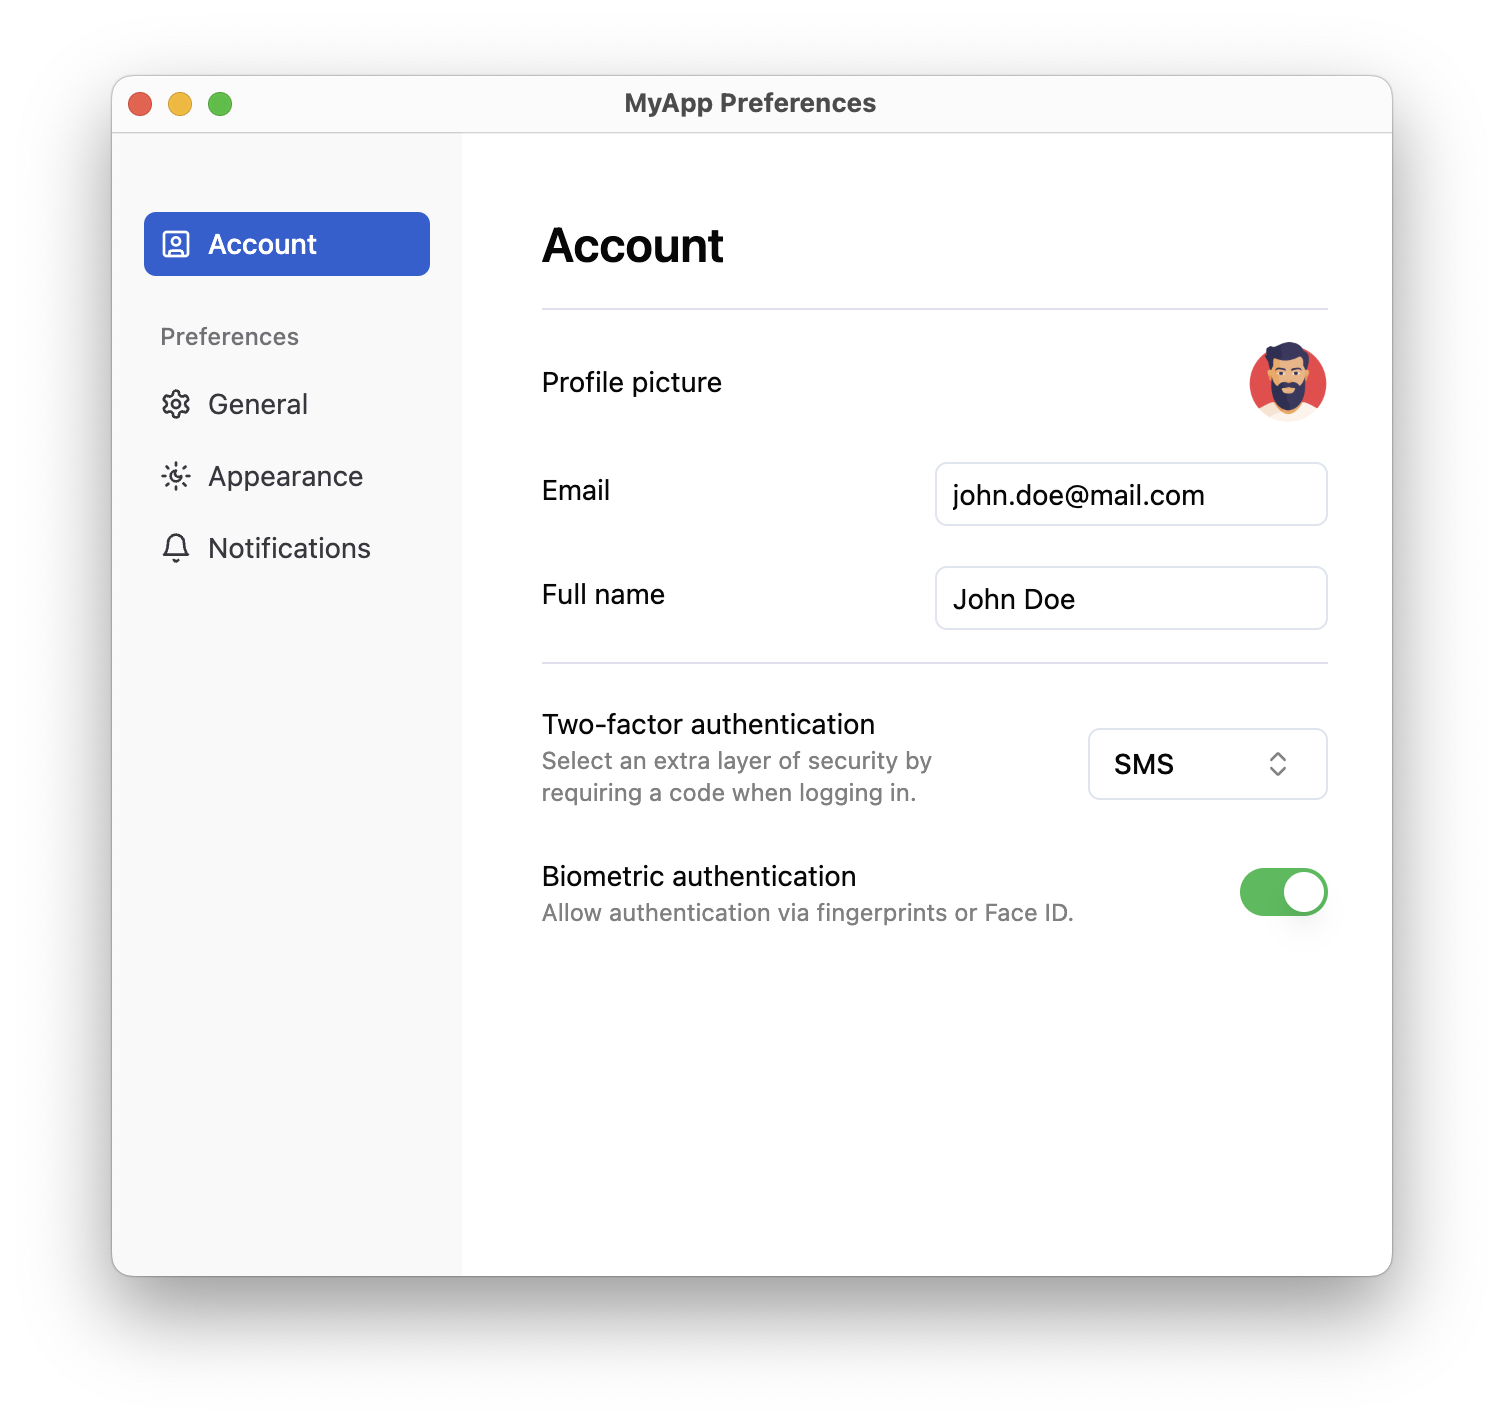
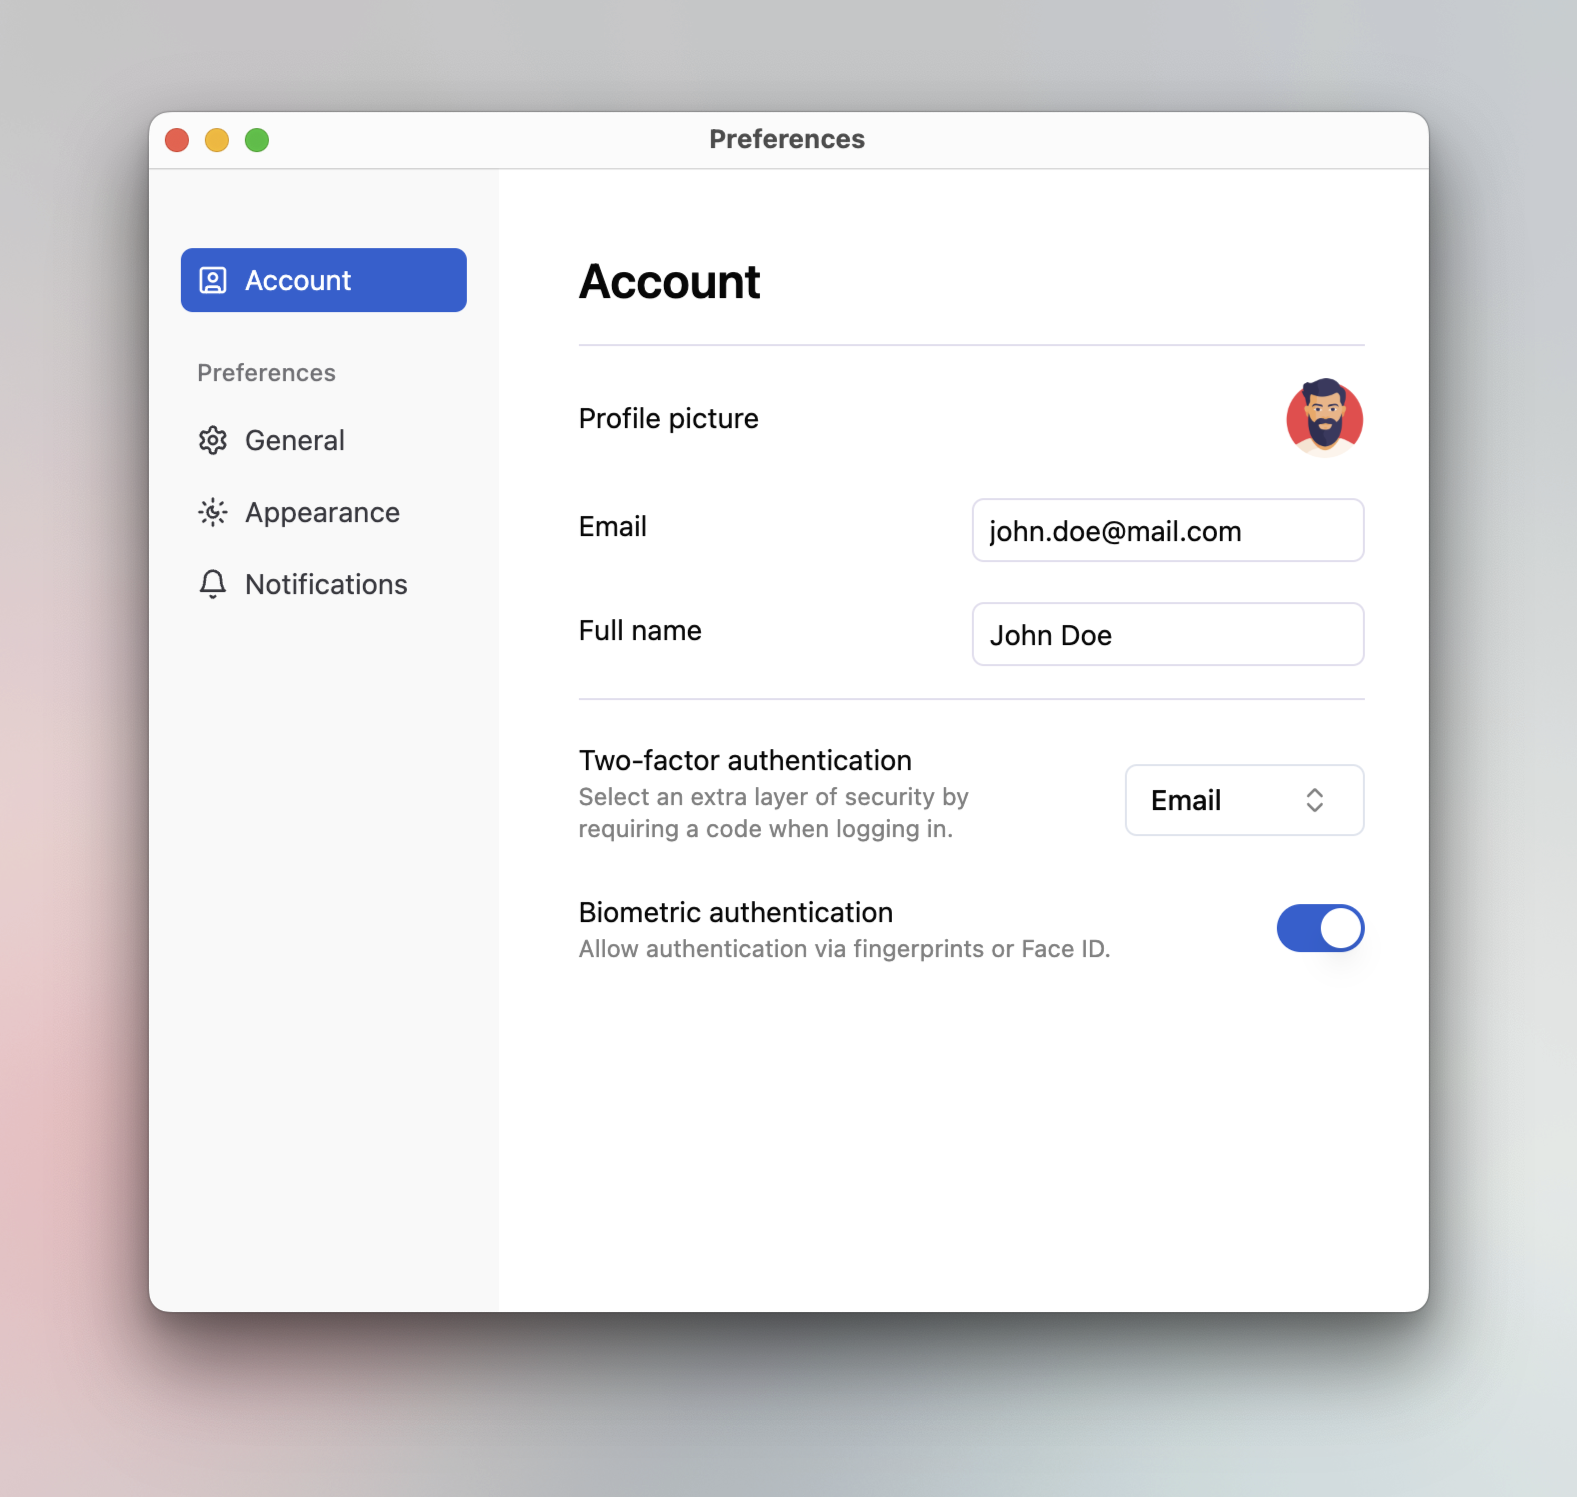
Update screenshot and simplify README.md

diff --git a/desktop-web-app/README.md b/desktop-web-app/README.md
@@ -1,12 +1,58 @@
 # Desktop web apps with JxBrowser
 
-This project demonstrates how to use JxBrowser with modern web UI frameworks such
-as [shadcn/ui](https://ui.shadcn.com/) to create desktop applications with Java backend and
-TypeScript/React/Shadcn frontend.
+This project demonstrates how to create a cross-platform desktop app with Java backend and [shadcn/ui](https://ui.shadcn.com/) frontend.
+
+The application represents a simple preferences dialog that allows users to change the application's settings. Here's how the dialog looks like:
 
 ![App screenshot](.github/readme-resources/prefs.png)
 
-## Summary
+## Prerequisites
+
+- Java 17 or higher.
+- [Node.js](https://nodejs.org/en/download) 20.11.0 or higher.
+- [WiX Toolset](https://github.com/wixtoolset/wix3/releases/tag/wix3141rtm) 3.14.1 or higher if you are planning to package an installer on Windows.
+
+## Protobuf
+
+The app uses Protobuf for communication between Java backend and TypeScript frontend. The Protobuf files are located in the `proto` directory. Java and TypeScript code for Protobuf messages are generated automatically during the build process.
+
+To generate proto messages manually, run the following command:
+
+```bash
+./gradlew desktop-web-app:generateProto
+```
+
+## Running the application
+
+To run the application in the development mode, you first need to start the [Vite](https://vite.dev/) dev server with enabled **Hot-Module Reload (HMR)**:
+
+```bash
+./gradlew desktop-web-app:startDevServer
+```
+
+Then open another **Terminal** window and run the following command to start the application:
+
+```bash
+./gradlew desktop-web-app:run
+```
+
+## Packaging
+
+To build native installers for macOS and Windows, use the following commands.
+
+To build macOS DMG run:
+
+```bash
+./gradlew desktop-web-app:clean desktop-web-app:packageDmg
+```
+
+To build Windows EXE installer run:
+
+```bash
+gradlew.bat desktop-web-app:clean desktop-web-app:packageExe
+```
+
+## About the project
 
 ### Problem
 
@@ -17,18 +63,15 @@ applications switch to web-based UI to eliminate everyday maintenance challenges
 scalability and user experience. With millions of developers experienced in JavaScript, TypeScript,
 and frameworks like React, finding talent and speeding up development is much easier.
 
-Using modern browsers like Chromium makes this transition toward web-based UIs easier. This browser
-allows to render web content seamlessly, and support the latest HTML/CSS/JavaScript, ensuring 
-compatibility with modern UI frameworks. These frameworks use advanced CSS, responsive design,
-and rich component libraries.
+The modern web browsers like Chromium make this transition toward web-based UIs easier. Chromium
+allows rendering web content seamlessly, and supports the latest HTML and CSS standards, ensuring 
+compatibility with modern UI frameworks.
 
-#### Solution
+### Solution
 
-This example demonstrates how to create a desktop application that uses a modern Shadcn framework
-for building UI. The showcased application is a web server that utilizes the JxBrowser API
-to render web UI from the [web-app](/web-app) directory. 
+This project demonstrates how to create a desktop application that uses one of the most popular library for building UI on React — [shadcn/ui](https://ui.shadcn.com/). The showcased application is a web server that utilizes the JxBrowser API to render web UI from the [web-app](/web-app) directory. 
 
-Rendering web UI is different depending on the mode, production or development.
+Rendering web UI is different depending on the mode: production or development.
 
 In the development mode, you can start a local Vite server that will host the web application.
 
@@ -46,53 +89,3 @@ To sum up, here is a short list of benefits:
 2. Advanced CSS, responsive design, and rich library of pre-designed components.
 3. Web technologies' modular design makes it easy to update, scale, and improve 
 the UI as needs change.
-
-## Description
-
-The project is a desktop application that uses web UI on Shadcn to display regular 
-application preferences.
-
-## Prerequisites
-
-- Java 17 or higher.
-- [Node.js](https://nodejs.org/en/download) 20.11.0 or higher.
-- [WiX Toolset](https://github.com/wixtoolset/wix3/releases/tag/wix3141rtm) 3.14.1 or higher if you are planning to package an installer on Windows.
-
-## Running the application
-
-To run the application in the development mode, you first need to start Vite development server with Hot-Module Reload (HMR):
-
-```bash
-./gradlew desktop-web-app:startDevServer
-```
-
-Then open another terminal and run the following command to start the application:
-
-```bash
-./gradlew desktop-web-app:run
-```
-
-## Packaging
-
-To build a native installer for macOS or Windows, use the following commands.
-
-### macOS (DMG)
-
-```bash
-./gradlew desktop-web-app:clean desktop-web-app:packageDmg
-```
-
-### Windows (EXE)
-
-```bash
-gradlew.bat desktop-web-app:clean desktop-web-app:packageExe
-```
-
-## Protobuf
-
-This app uses Protobuf for communication between Java and JavaScript. The Protobuf files are
-located in the `proto` directory. Java and JavaScript code for Protobuf messages is generated automatically during the build process. To generate proto messages manually, run the following command:
-
-```bash
-./gradlew desktop-web-app:generateProto
-```
